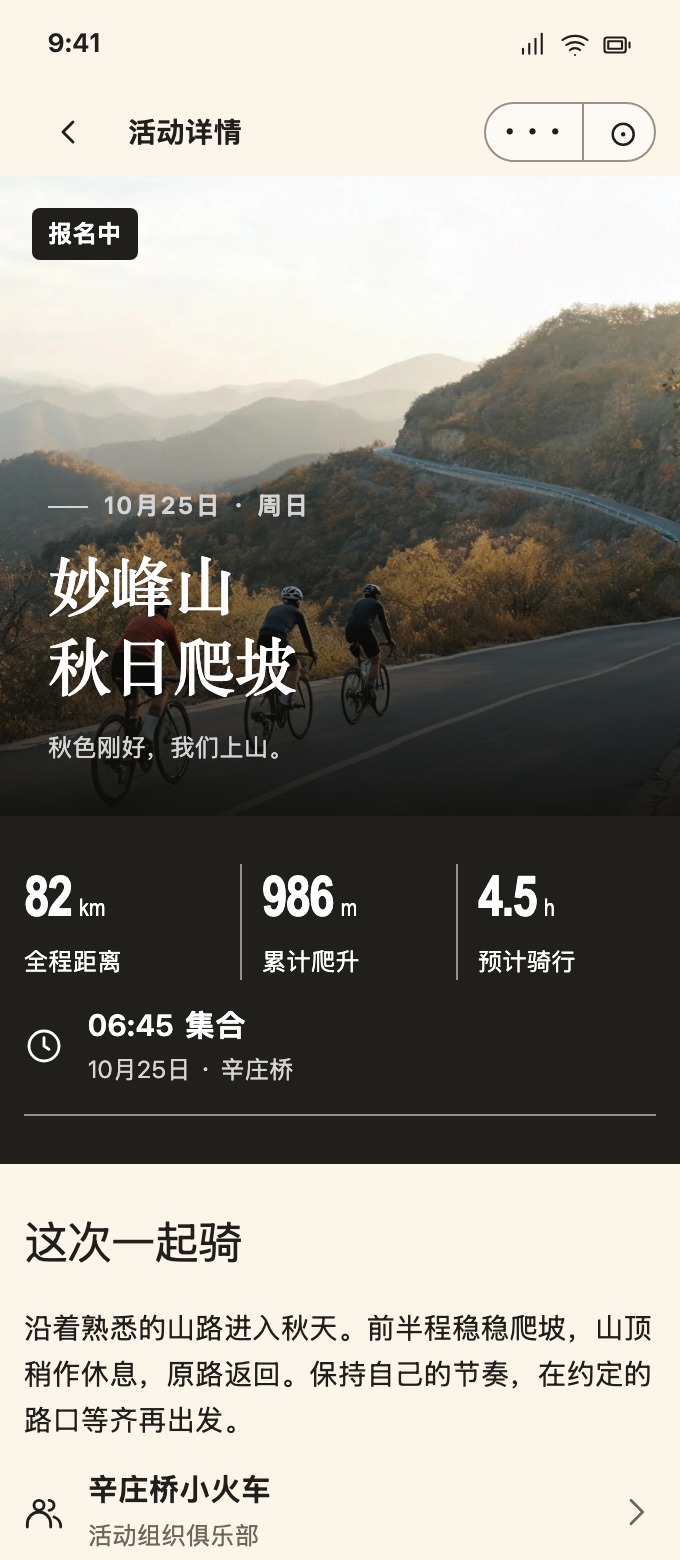
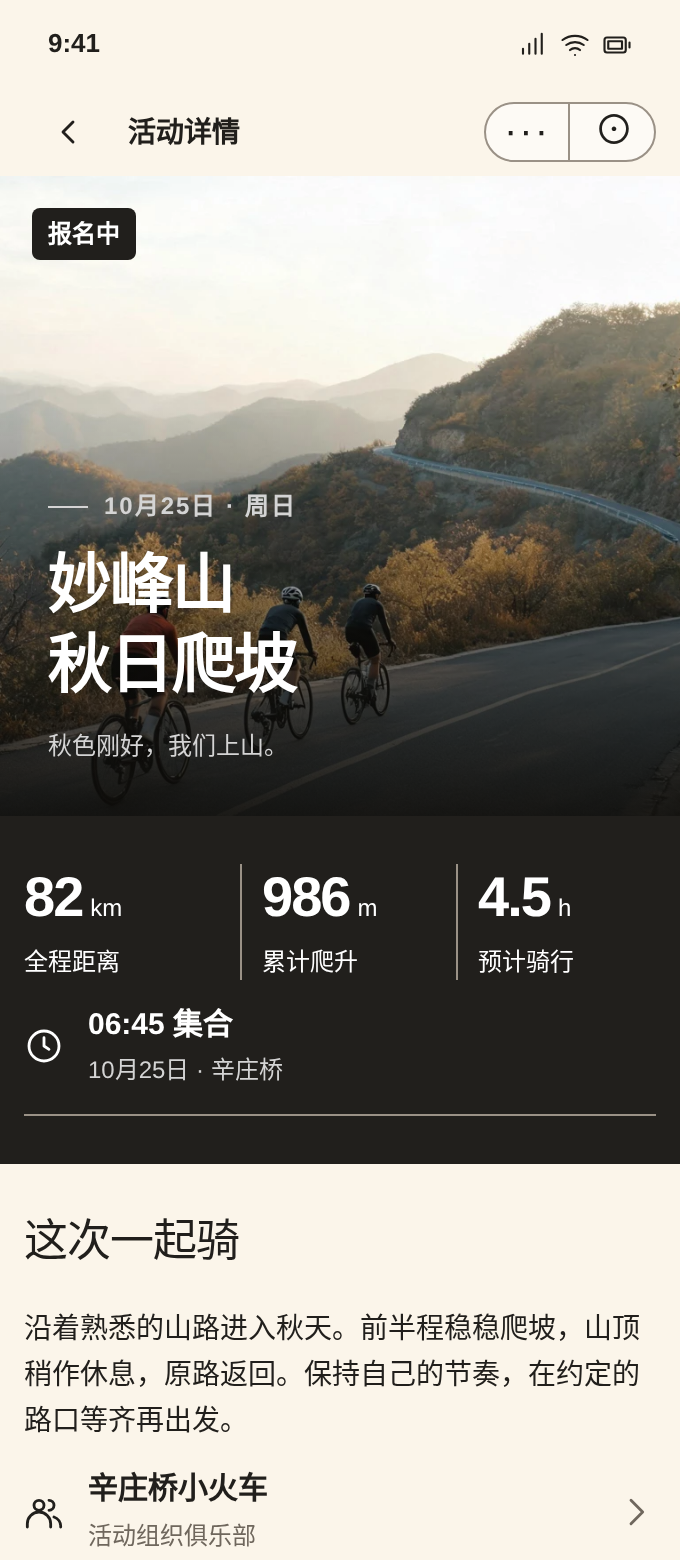
feat(ui): 收敛骑行影像志布局与交互反馈
统一活动、详情、报名、行程、个人中心与设置页的页面节奏和触控反馈。

新增路线异步状态卡、报名错误定位，并将低频设置页迁入分包以保持主包余量。

同步 16 页三档宽度视觉证据、发布日志与回归测试。

diff --git a/tests/settings-page.test.ts b/tests/settings-page.test.ts
@@ -62,32 +62,37 @@ describe('设置页', () => {
     await import('../miniprogram/pages/settings/index');
   });
 
-  it('当前版本为 2026.10.23.1 且 latest 唯一，上一版转为历史项', () => {
-    expect(CLIENT_RELEASE_VERSION).toBe('2026.10.23.1');
-    expect(page.data.releaseNotes).toHaveLength(29);
+  it('当前版本为 2026.10.24.1 且 latest 唯一，上一版转为历史项', () => {
+    expect(CLIENT_RELEASE_VERSION).toBe('2026.10.24.1');
+    expect(page.data.releaseNotes).toHaveLength(30);
     expect(page.data.currentRelease).toBe(page.data.releaseNotes[0]);
     expect(page.data.currentRelease).toMatchObject({
-      version: '2026.10.23.1',
-      date: '2026-10-23',
-      title: '头像、状态文字与群二维码显示更清晰',
+      version: '2026.10.24.1',
+      date: '2026-10-24',
+      title: '页面布局和操作反馈更顺手',
       latest: true,
     });
     expect(page.data.releaseNotes[1]).toMatchObject({
+      version: '2026.10.23.1',
+      title: '头像、状态文字与群二维码显示更清晰',
+      latest: false,
+    });
+    expect(page.data.releaseNotes[2]).toMatchObject({
       version: '2026.10.22.4',
       title: '骑行影像志运行态视觉对齐',
       latest: false,
     });
-    expect(page.data.releaseNotes[2]).toMatchObject({
+    expect(page.data.releaseNotes[3]).toMatchObject({
       version: '2026.10.22.3',
       title: '影像志排版与设计稿逐页对齐',
       latest: false,
     });
-    expect(page.data.releaseNotes[3]).toMatchObject({
+    expect(page.data.releaseNotes[4]).toMatchObject({
       version: '2026.10.22.2',
       title: '骑行影像志，头像和背景合为我的名片',
       latest: false,
     });
-    expect(page.data.releaseNotes[4]).toMatchObject({
+    expect(page.data.releaseNotes[5]).toMatchObject({
       version: '2026.10.21.7',
       title: '活动发现与报名反馈更清晰',
       latest: false,

diff --git a/tests/oil-ui-interaction-layout.test.ts b/tests/oil-ui-interaction-layout.test.ts
@@ -1,0 +1,37 @@
+// @ts-expect-error The repository intentionally omits Node typings; Vitest provides this runtime.
+import { readFileSync } from 'node:fs';
+import { describe, expect, it } from 'vitest';
+
+const read = (path: string) => readFileSync(path, 'utf8');
+
+describe('Oil UI 交互与布局收敛', () => {
+  it('保留三栏底部导航并统一全局交互 token', () => {
+    const appJson = JSON.parse(read('miniprogram/app.json'));
+    expect(appJson.tabBar.list.map((item: { text: string }) => item.text)).toEqual([
+      '活动',
+      '行程',
+      '我的',
+    ]);
+    const appStyle = read('miniprogram/app.wxss');
+    expect(appStyle).toContain('--motion-duration-fast');
+    expect(appStyle).toContain('transform: scale(0.985)');
+    expect(appStyle).toContain('.rowbutton:active');
+  });
+
+  it('活动详情使用异步状态卡并将费用前置到路线之前', () => {
+    const detail = read('miniprogram/pages/activity-detail/index.wxml');
+    expect(detail).toContain('<async-status-card');
+    expect(detail.indexOf('<!-- 费用与名额前置')).toBeLessThan(detail.indexOf('<!-- 山路有迹可循'));
+    const component = read(
+      'miniprogram/pages/activity-detail/components/async-status-card/index.wxml',
+    );
+    expect(component).toContain('aria-live="polite"');
+  });
+
+  it('报名错误具备可定位锚点', () => {
+    const form = read('miniprogram/pages/registration-form/index.wxml');
+    const logic = read('miniprogram/pages/registration-form/index.ts');
+    expect(form).toContain('id="registration-errors"');
+    expect(logic).toContain("selector: '#registration-errors'");
+  });
+});

diff --git a/miniprogram/pages/settings/index.ts b/miniprogram/pages/settings/index.ts
@@ -12,10 +12,22 @@ const MAX_SUBSCRIPTION_TEMPLATES = 3;
 const RELEASE_NOTES = [
   {
     version: CLIENT_RELEASE_VERSION,
+    date: '2026-10-24',
+    title: '页面布局和操作反馈更顺手',
+    summary: '在保留骑行影像志主题的基础上，统一页面节奏、报名反馈与路线状态。',
+    latest: true,
+    features: [
+      '活动筛选吸顶、日期滑动提示与卡片按压反馈更清晰',
+      '活动费用前置，路线下载和复制状态集中展示',
+      '报名错误自动定位，行程、个人中心与设置页布局更紧凑',
+    ],
+  },
+  {
+    version: '2026.10.23.1',
     date: '2026-10-23',
     title: '头像、状态文字与群二维码显示更清晰',
     summary: '统一圆形头像、单行状态文字和带留白的活动群二维码展示。',
-    latest: true,
+    latest: false,
     features: [
       '个人资料与审核页面统一使用圆形头像，不再叠加方形边框',
       '短状态和关键身份值保持单行，较长说明按自然词语换行',

diff --git a/tests/boiling-point-first-batch-contract.test.ts b/tests/boiling-point-first-batch-contract.test.ts
@@ -89,9 +89,9 @@ describe('沸点首批六页尺寸契约', () => {
     expect(app).toContain('padding: 32rpx var(--page-gutter);');
     // pageheading 字号与设计稿双行宋体对齐
     expect(declaration(effectiveBlock(styles, '.pageheading-title'), 'line-height')).toBe('80rpx');
-    // row.rowlink.rowbutton 使用 60px 无卡片分隔行（对齐设计稿 .row.rowlink.rowbutton）
+    // row.rowlink.rowbutton 使用 52px 紧凑分隔行（保留完整触控区）
     const row = effectiveBlock(styles, '.row.rowlink.rowbutton');
-    expect(declaration(row, 'min-height')).toBe('120rpx');
+    expect(declaration(row, 'min-height')).toBe('104rpx');
     expect(declaration(row, 'background')).toBe('transparent');
     expect(declaration(row, 'border-bottom')).toContain('var(--color-border)');
     // detailrows 用来承载"当前版本/本次更新"，不再是整块 release-card

diff --git a/tests/main-package-contract.test.ts b/tests/main-package-contract.test.ts
@@ -18,6 +18,7 @@ const {
 const appConfig = JSON.parse(readFileSync('miniprogram/app.json', 'utf8')) as MiniProgramAppConfig;
 
 const expectedPackages = [
+  { root: 'pages/settings', pages: ['index'] },
   { root: 'pages/activity-detail', pages: ['index'] },
   { root: 'pages/route-analysis', pages: ['index'] },
   { root: 'pages/profile-edit', pages: ['index'] },
@@ -36,7 +37,7 @@ const expectedPackages = [
 ];
 
 describe('按需分包与主包字节契约', () => {
-  it('五个低频功能均按需加载且完整路由仍为 17 个', () => {
+  it('六个低频功能均按需加载且完整路由仍为 17 个', () => {
     expect(appConfig.subpackages).toEqual(expectedPackages);
     const routes = expandAppRoutes(appConfig);
     expect(routes).toHaveLength(17);

diff --git a/miniprogram/pages/registration-form/index.ts b/miniprogram/pages/registration-form/index.ts
@@ -170,7 +170,12 @@ Page({
     const errors = validateRegistration(this.data);
     if (this.data.teamParameterError) errors.push(this.data.teamParameterError);
     if (!this.data.activityCanSubmit) errors.push(this.data.activityAction.label);
-    if (errors.length) return this.setData({ errors });
+    if (errors.length) {
+      this.setData({ errors }, () => {
+        wx.pageScrollTo?.({ selector: '#registration-errors', offsetTop: -16, duration: 180 });
+      });
+      return;
+    }
     const requestId = ++this.submitRequestId;
     this.submissionPending = true;
     this.setData({ submitting: true, errors: [], submitFeedback: '正在提交报名，请稍候' });

diff --git a/miniprogram/pages/activity-detail/components/async-status-card/index.ts b/miniprogram/pages/activity-detail/components/async-status-card/index.ts
@@ -1,0 +1,13 @@
+Component({
+  properties: {
+    title: { type: String, value: '' },
+    detail: { type: String, value: '' },
+    state: { type: String, value: 'pending' },
+    actionLabel: { type: String, value: '' },
+  },
+  methods: {
+    onAction() {
+      this.triggerEvent('action');
+    },
+  },
+});

diff --git a/miniprogram/config/release.ts b/miniprogram/config/release.ts
@@ -1,1 +1,1 @@
-export const CLIENT_RELEASE_VERSION = '2026.10.23.1';
+export const CLIENT_RELEASE_VERSION = '2026.10.24.1';
